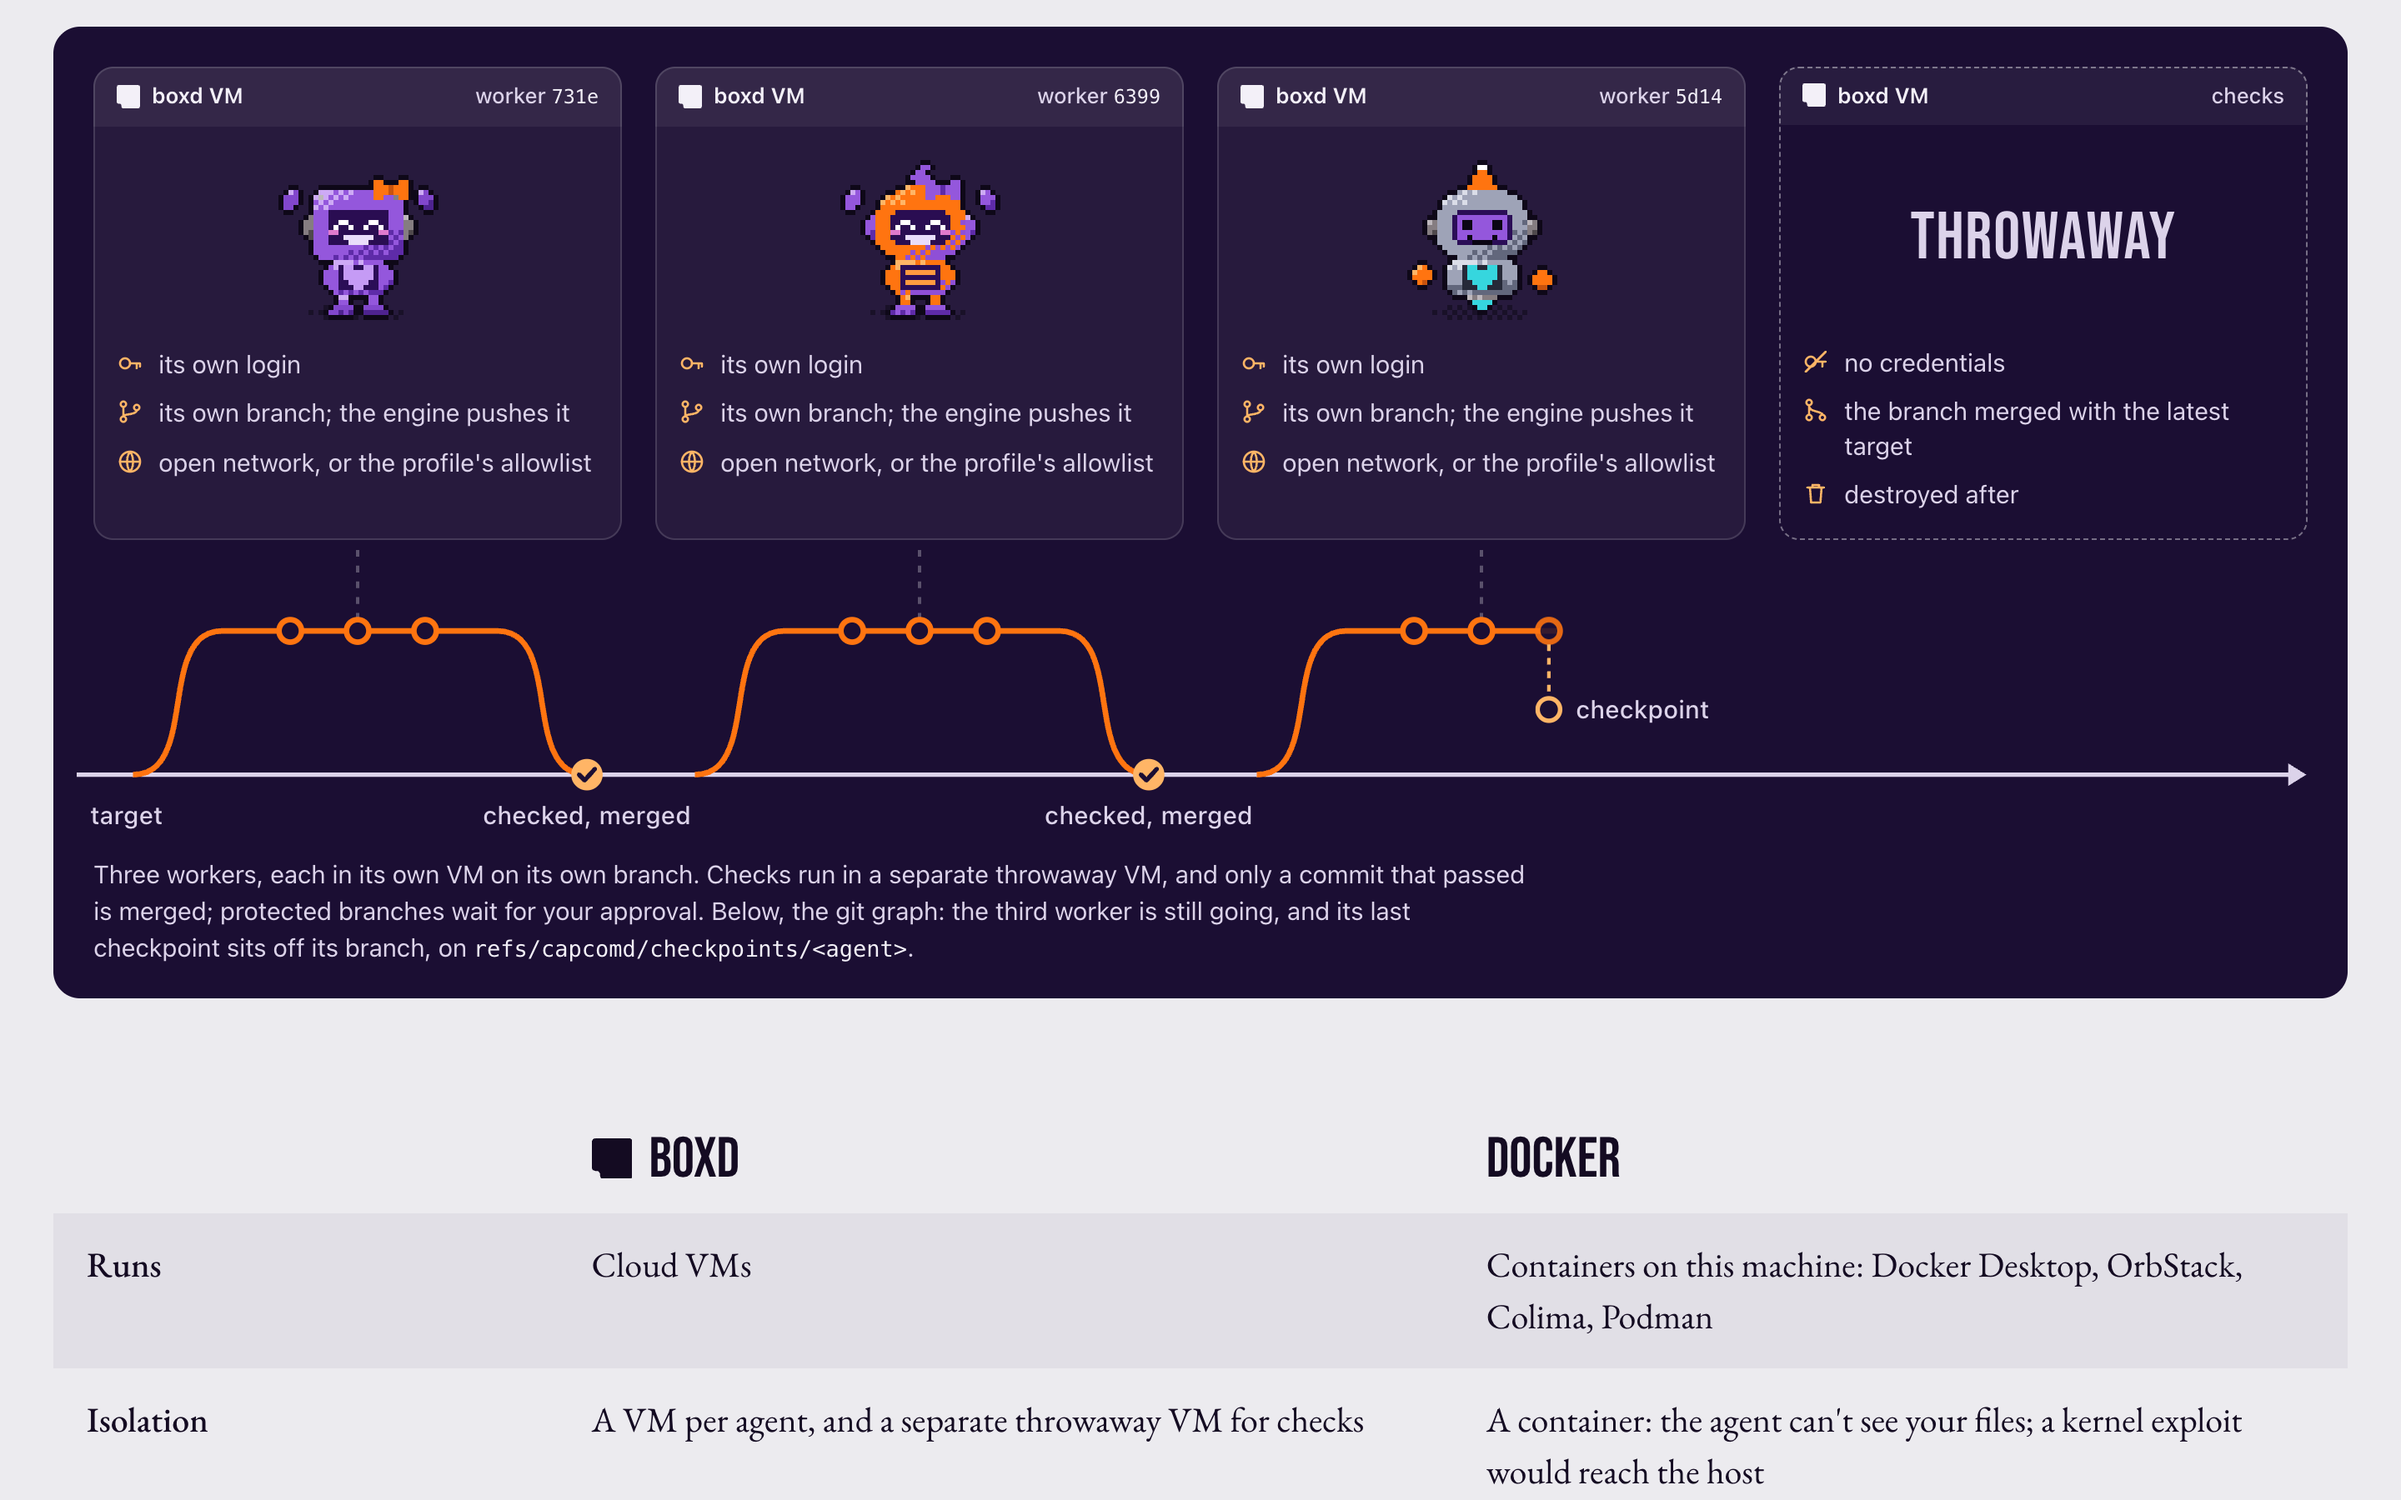
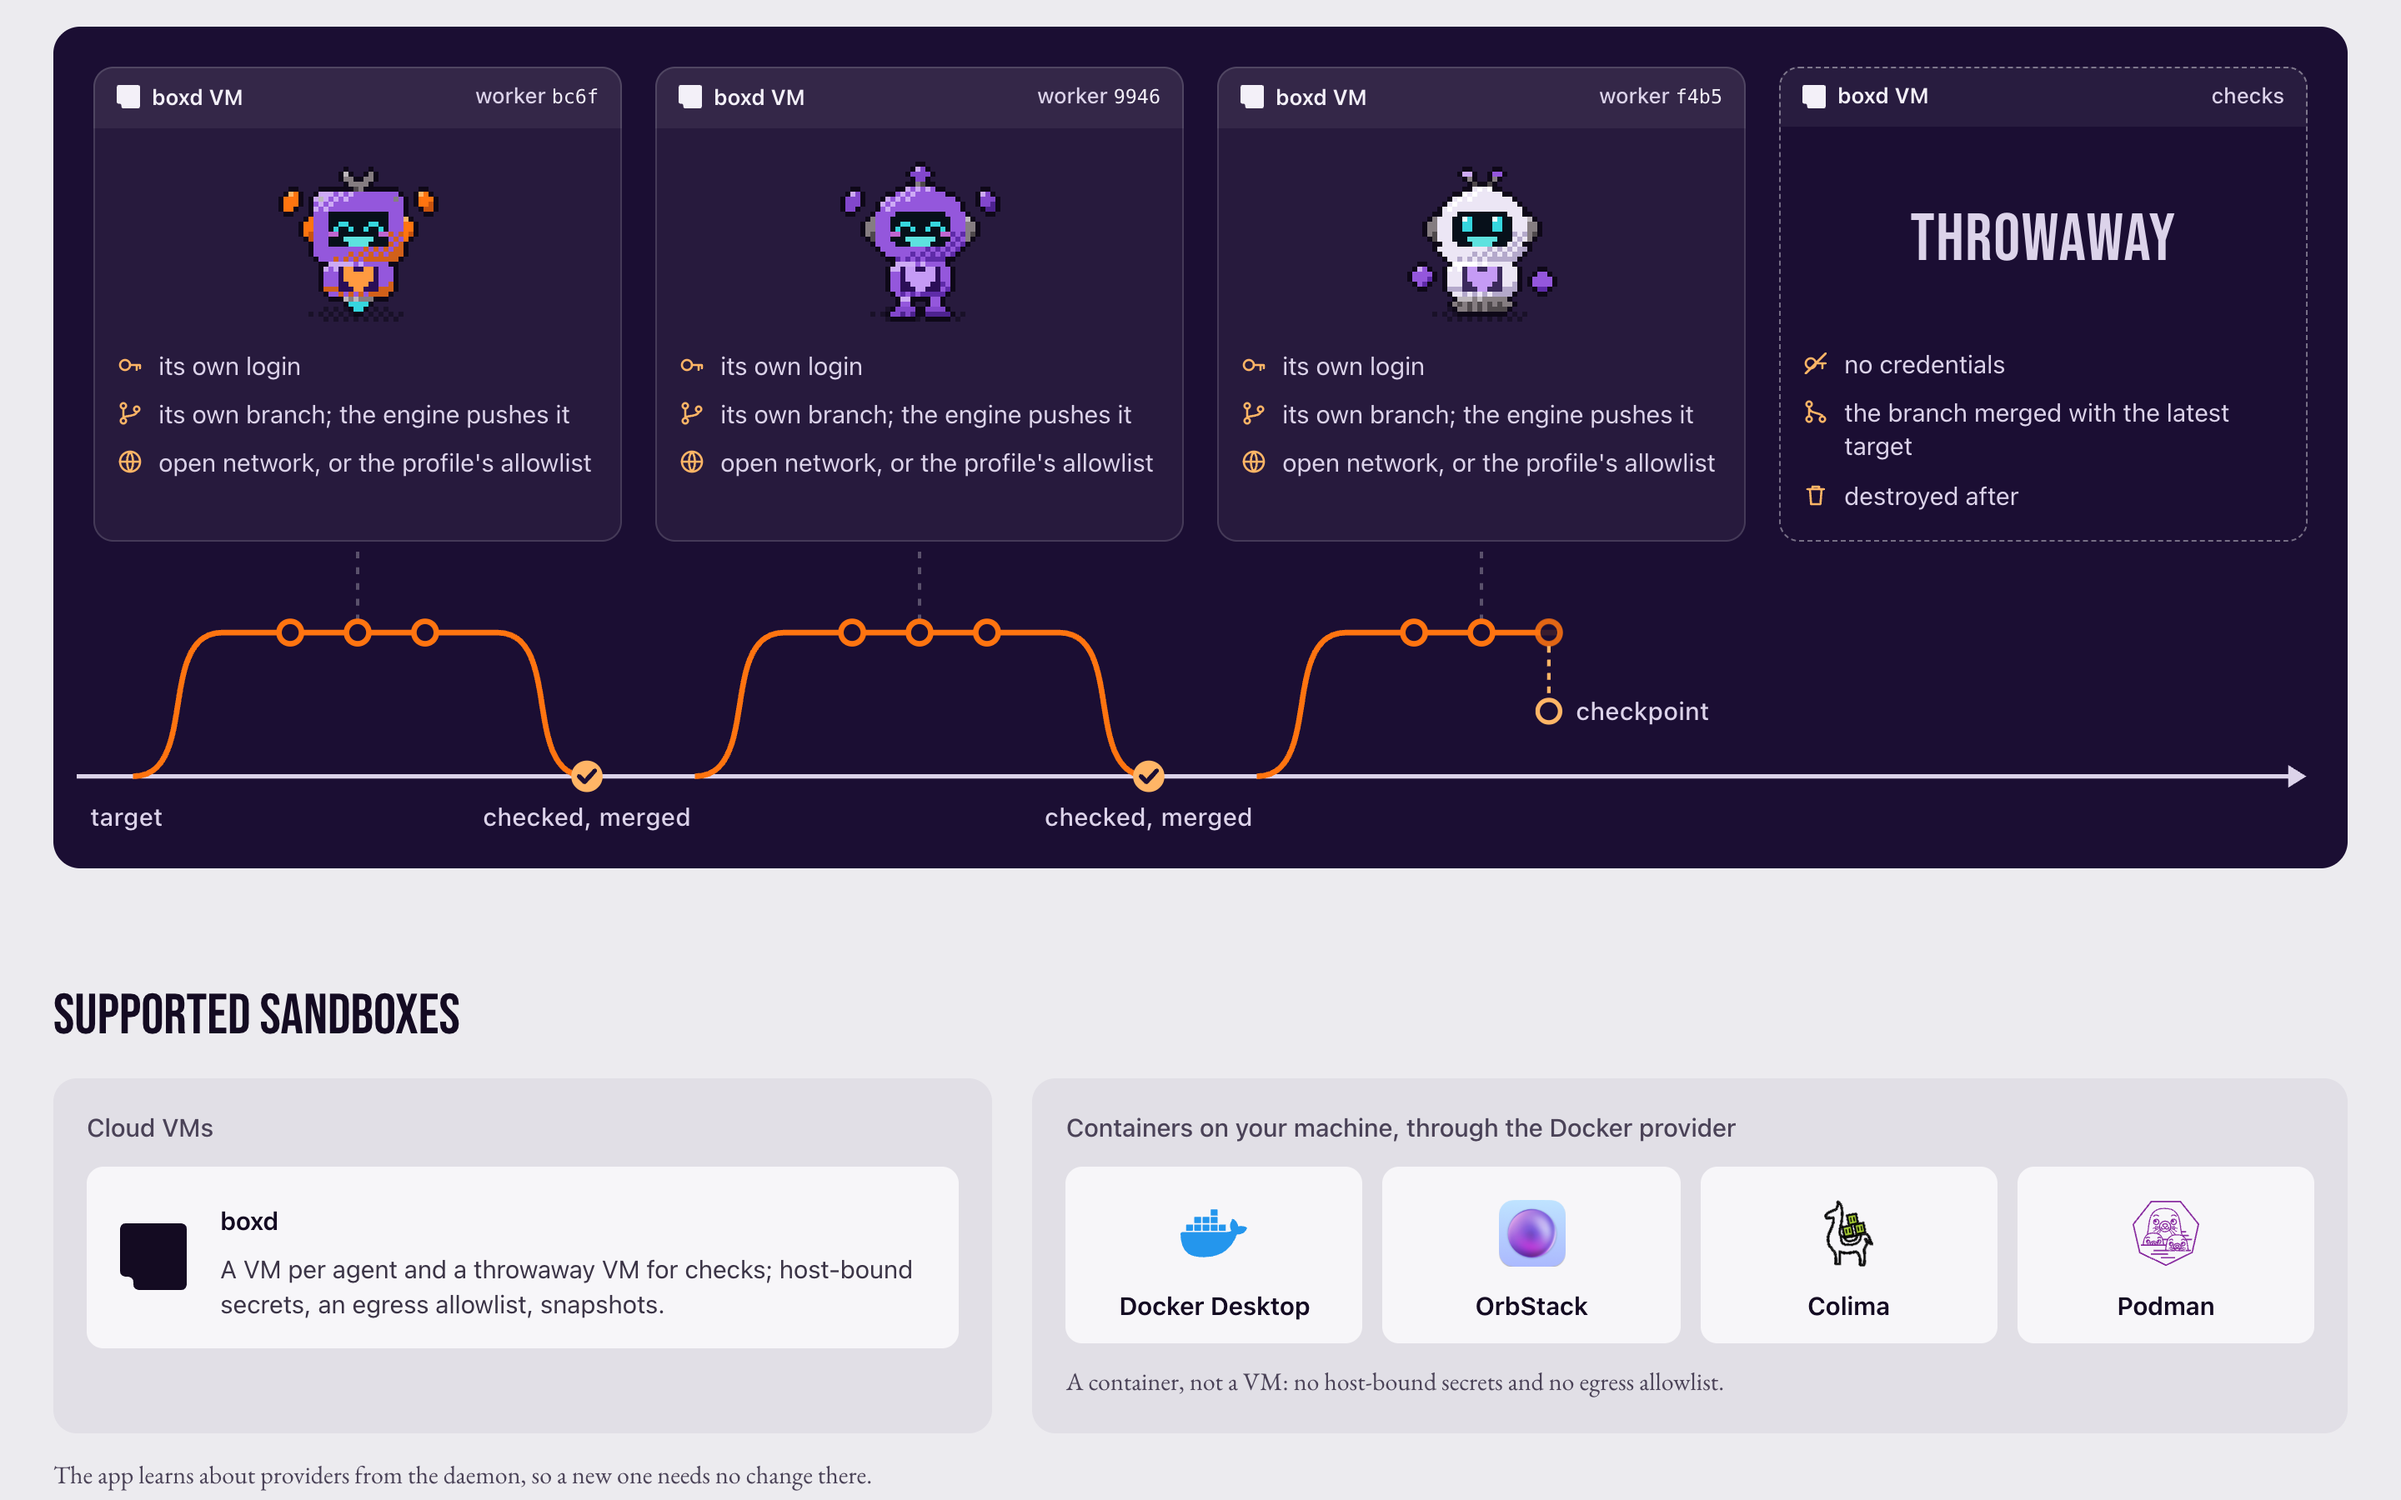
site: trim the Sandboxes copy
The provider-history and docs-pointer sentences are removed from the intro,
and so is the bay figure's caption.

diff --git a/site/components/Sandboxes.tsx b/site/components/Sandboxes.tsx
@@ -74,7 +74,6 @@ function Bay() {
           );
         })}
       </svg>
-      <figcaption>Three workers, each in its own VM on its own branch. Checks run in a separate throwaway VM, and only a commit that passed is merged; protected branches wait for your approval.<span className="bay__more"> Below, the git graph: the third worker is still going, and its last checkpoint sits off its branch, on <code>refs/capcomd/checkpoints/&lt;agent&gt;</code>.</span></figcaption>
     </figure>
   );
 }
@@ -85,8 +84,8 @@ export function Sandboxes() {
     <section className="sec" id="sandboxes" aria-labelledby="sb-title">
       <h2 className="big" id="sb-title" data-reveal><span>One agent, one VM,</span> <span>one branch.</span></h2>
       <div className="two">
-        <p data-reveal>VMs come through one sandbox provider interface: create from a snapshot, exec, upload and download, egress allowlist, checkpoint and snapshot, suspend and resume, destroy. Orchestration, durability and the gates sit above it. boxd was the first provider; Docker joined in 0.6.</p>
-        <p data-reveal style={delay(60)}>Inside its VM an agent is unrestricted by default: every tool, open network. A profile narrows its tools, sandbox and egress. Writing a provider is documented in <code>docs/providers.md</code>.</p>
+        <p data-reveal>VMs come through one sandbox provider interface: create from a snapshot, exec, upload and download, egress allowlist, checkpoint and snapshot, suspend and resume, destroy. Orchestration, durability and the gates sit above it.</p>
+        <p data-reveal style={delay(60)}>Inside its VM an agent is unrestricted by default: every tool, open network. A profile narrows its tools, sandbox and egress.</p>
       </div>
       <Bay />
       <div className="runs" data-reveal style={delay(120)}>

diff --git a/site/app/globals.css b/site/app/globals.css
@@ -906,8 +906,6 @@ html:not(.js) .stage__title { display: block; }
   .bay__ckpt path { fill: none; stroke: var(--color-accent-light); stroke-width: 1.5; stroke-dasharray: 3 3; }
   .bay__ckpt circle { fill: var(--color-desk); stroke: var(--color-accent-light); stroke-width: 2; }
   .bay__lbl { font: 500 11px/1 var(--font-ui); fill: var(--color-on-dark-soft); }
-  .bay figcaption { margin: 14px 10px 0; max-width: 92ch; font: 400 15px/1.45 var(--font-ui); color: var(--color-on-dark-soft); }
-  .bay figcaption code { color: var(--color-on-dark); }
 
   @media (min-width: 761px) and (prefers-reduced-motion: no-preference) {
     .reveal .bay .bay__vm { opacity: 0; transform: translateY(16px); transition: opacity 600ms var(--ease-out), transform 800ms var(--ease-out); transition-delay: calc(200ms + var(--k) * 90ms); }
@@ -926,7 +924,7 @@ html:not(.js) .stage__title { display: block; }
   }
   @media (max-width: 1100px) {
     .bay__row { grid-template-columns: repeat(2, minmax(0, 1fr)); gap: 16px 0; }
-    .bay__git, .bay__more { display: none; }
+    .bay__git { display: none; }
   }
   @media (max-width: 760px) {
     .bay { margin-top: 48px; padding: 16px 6px 16px; border-radius: 12px; }
